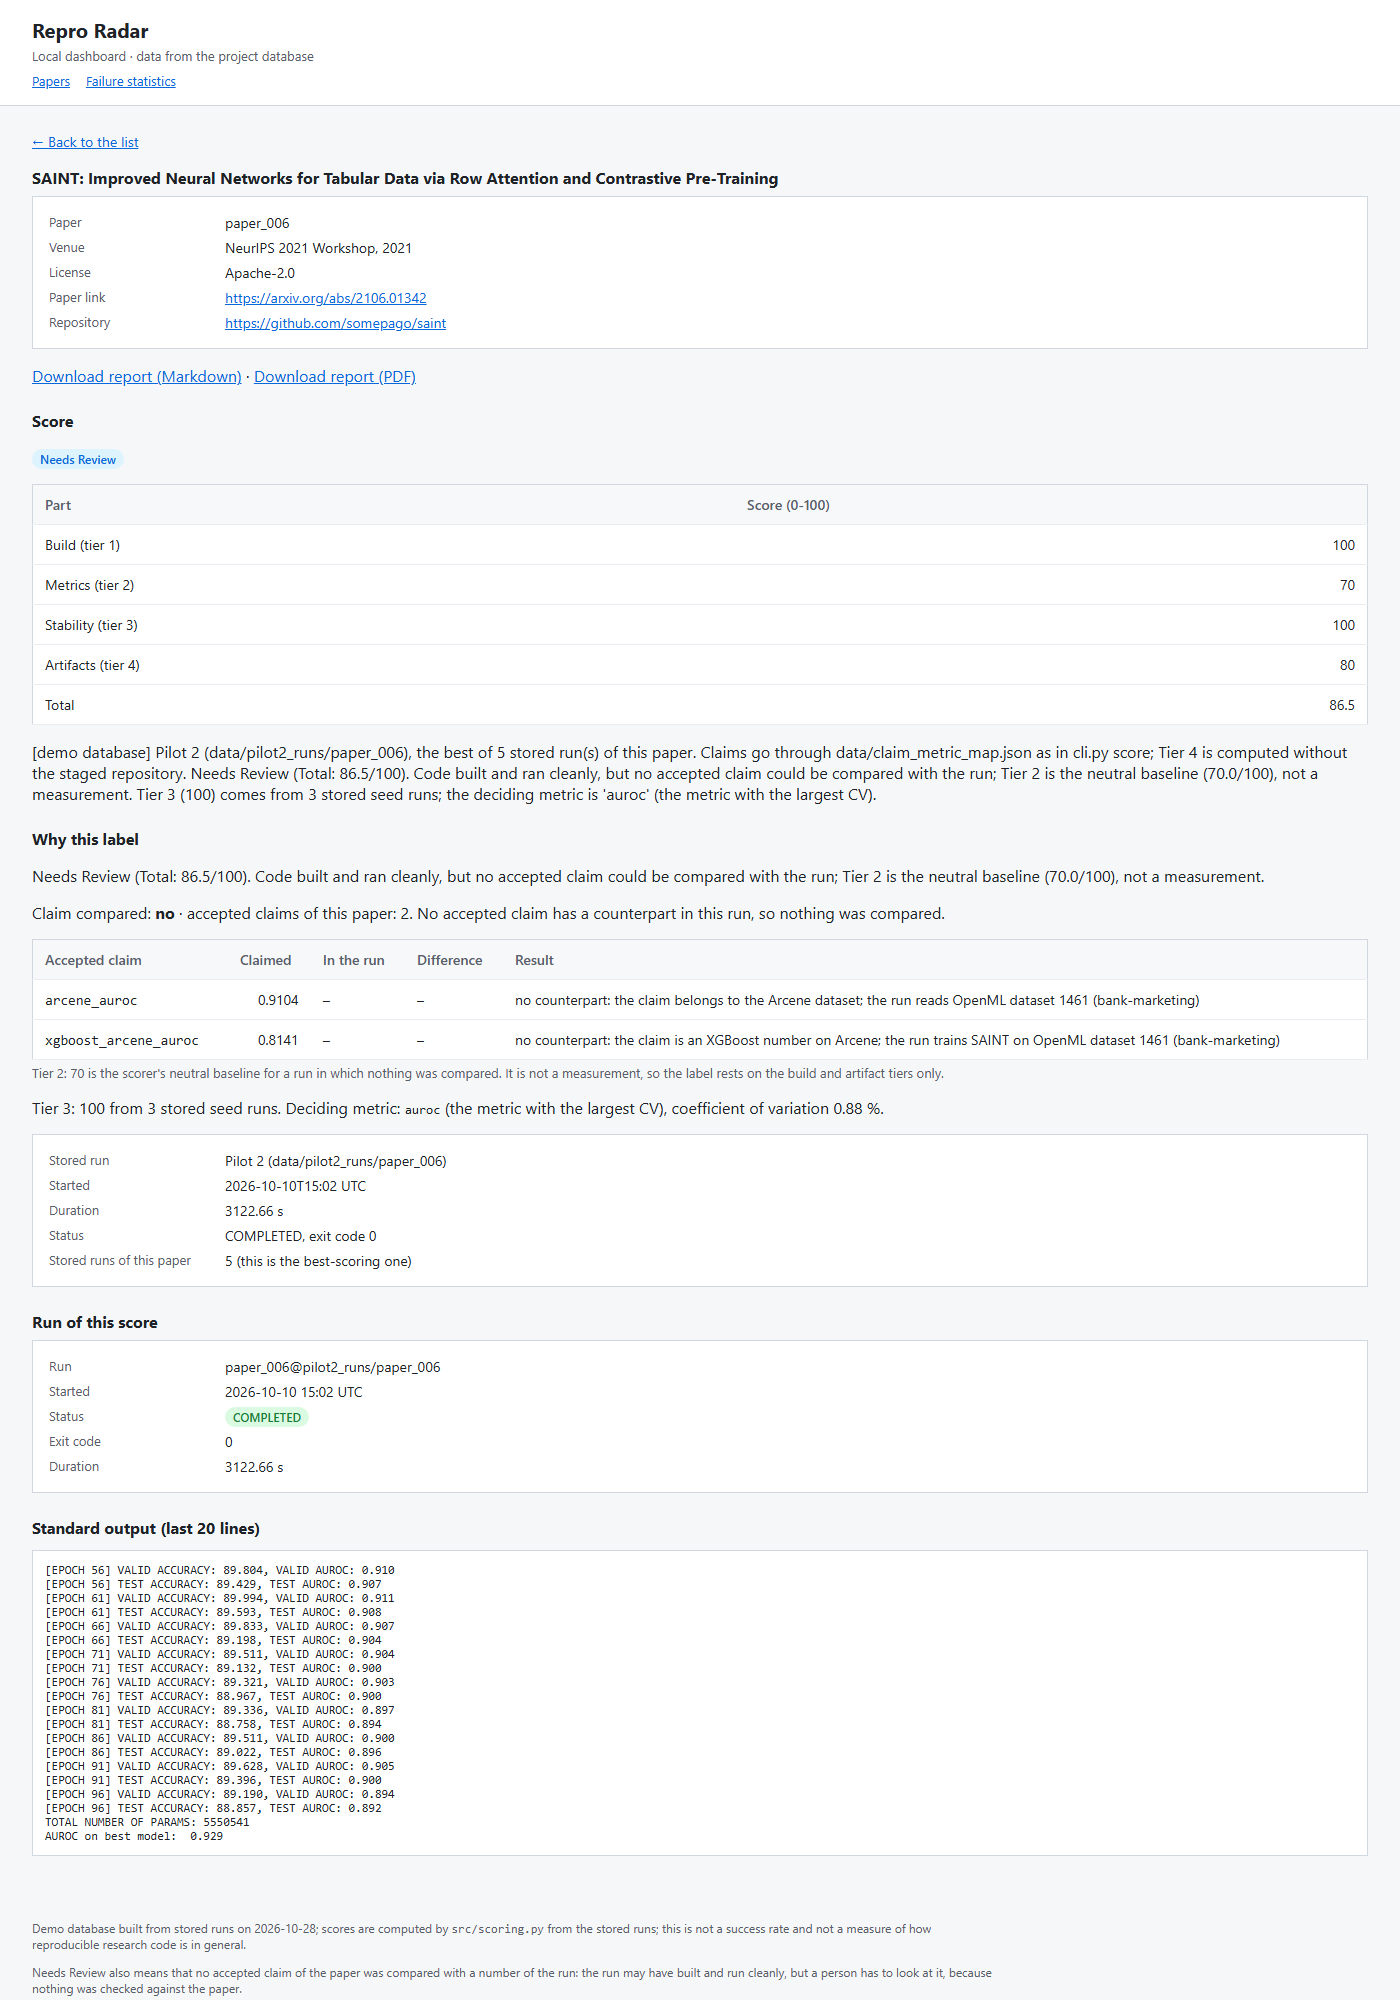
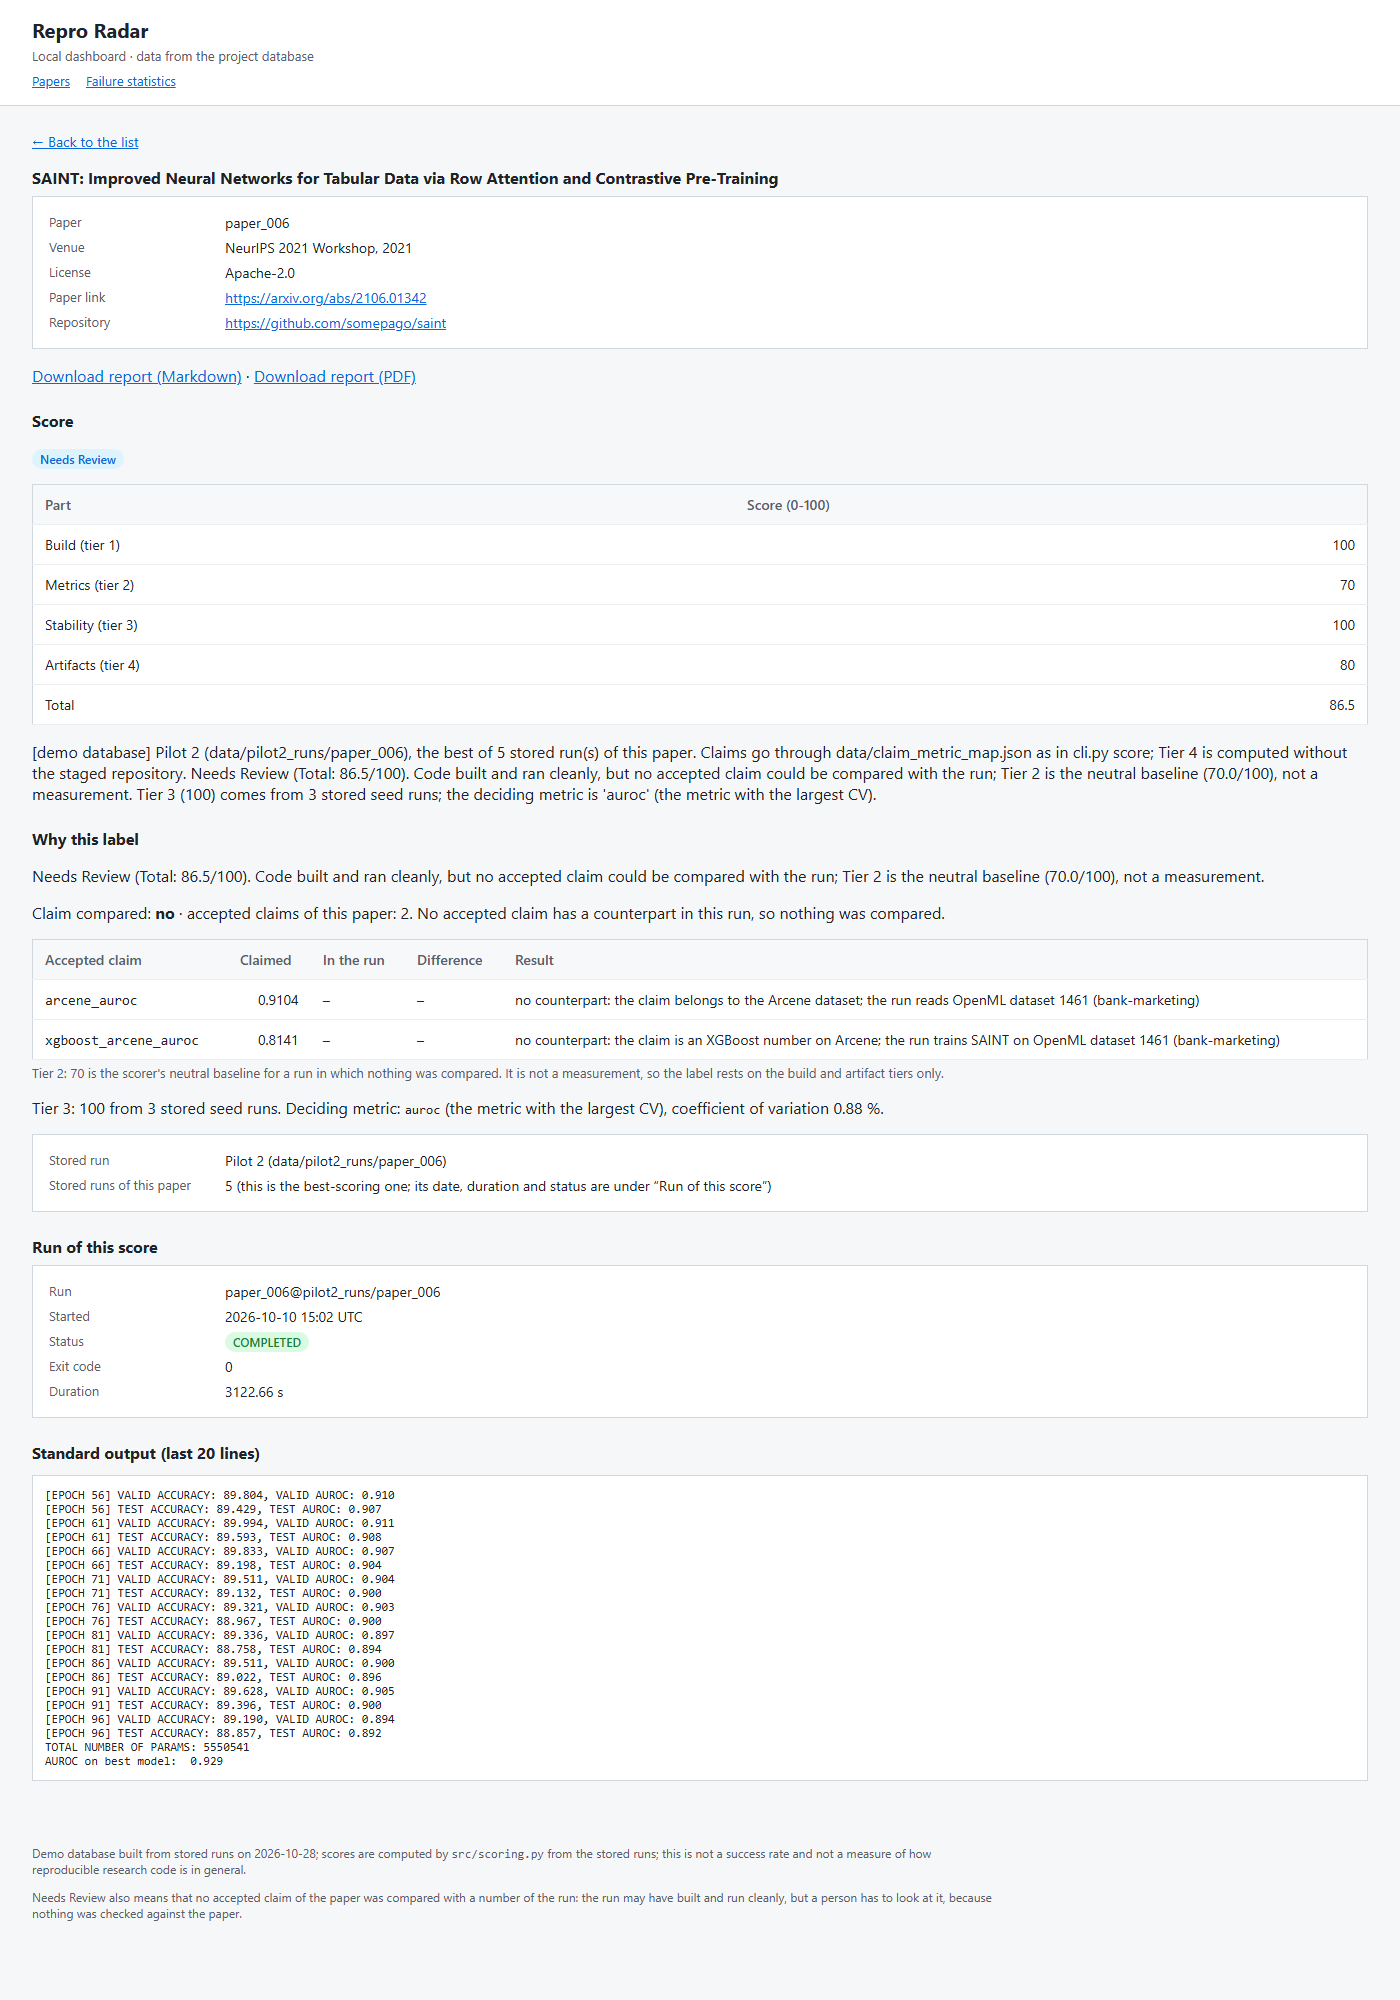
docs(web): demo3 screenshots, README and demo script for the final dashboard (#548)

Changed region(s): [[0.0307, 0.589, 0.6757, 1.0], [0.3379, 0.589, 0.3686, 0.62]]

diff --git a/docs/DEMO_SCRIPT.md b/docs/DEMO_SCRIPT.md
@@ -14,6 +14,11 @@ shows and what it does **not** show. Nothing here is a reproduction of a paper's
 > another run; the remark in Step 1 that score and latest run do not belong together describes the state at the time of recording.
 > The commands and their output were not recorded again.
 
+> **Update 2026-10-28 (#542, #546, #548): the final dashboard.** Step 1 below is replaced by the new Step 1 (the old one is kept under it). The list shows a short
+> reason beside every label, the paper page has "Why this label", the synthetic control is listed apart as "not a paper: known-answer
+> control", and the new page `/failures` shows the failure statistics. Tier 3 of `paper_003` and `paper_006` now comes from the stored
+> three-seed records (100 and 100). The commands below were run for real on 2026-10-28 in a fresh clone of the repository.
+
 Before the talk: `python cli.py init-db` once (loads the 6 papers and the 13 claims that the owner accepted), the virtual environment
 active (`.venv\Scripts\Activate.ps1`), and Docker **not** needed: every step reads stored records.
 
@@ -29,7 +34,48 @@ active (`.venv\Scripts\Activate.ps1`), and Docker **not** needed: every step rea
 | 8 | 0:20 | The candidate papers: 0 of 14 |
 | 9 | 0:40 | The limits, with their intervals |
 
-## Step 1. The dashboard (0:30)
+## Step 1. The dashboard with the stored runs (0:30)
+
+Commands (a fresh clone; the dashboard binds to `127.0.0.1` only; open `http://127.0.0.1:8000/`):
+
+```text
+$ python cli.py init-db
+$ python scripts/build_demo_db.py
+Wrote <REPO>/data/dashboard_demo.db: 13 papers, one score each (the best stored run).
+  paper_002          Failed              62.75  Pilot 2 of 3 run(s)
+  paper_003          Verified            97.00  Pilot 3 of 8 run(s)
+  paper_004          Needs Review        82.75  memory run of 4 run(s)
+  paper_005          Failed              62.75  Pilot 2 of 4 run(s)
+  paper_006          Needs Review        86.50  Pilot 2 of 5 run(s)
+  paper_008          Failed              62.75  Pilot 1 of 3 run(s)
+  paper_101          Needs Review        78.25  Pilot 4 of 1 run(s)
+  paper_102          Needs Review        82.75  Pilot 4 of 1 run(s)
+  paper_103          Failed              54.00  Pilot 4 of 1 run(s)
+  paper_104          Failed              62.75  Pilot 4 of 1 run(s)
+  paper_105          Failed              54.00  Pilot 4 of 1 run(s)
+  paper_106          Failed              58.25  Pilot 4 of 1 run(s)
+  synthetic_control  Verified            88.75  synthetic run 1 of 2 run(s)
+Start the dashboard: python -m src.web --db-url sqlite:///data/dashboard_demo.db
+$ python -m src.web --db-url sqlite:///data/dashboard_demo.db
+```
+
+Screenshots (headless Chrome, 2026-10-28), in `docs/evidence/demo3/`: [`list.png`](evidence/demo3/list.png),
+[`paper_003.png`](evidence/demo3/paper_003.png), [`paper_006.png`](evidence/demo3/paper_006.png),
+[`paper_103.png`](evidence/demo3/paper_103.png), [`synthetic_control.png`](evidence/demo3/synthetic_control.png),
+[`failures.png`](evidence/demo3/failures.png).
+
+- List: `paper_003` shows "Claim compared: yes (1 of 3) - Tier 2: 100"; `paper_006` shows "Claim compared: no - Tier 2: 70 (baseline,
+  nothing compared)" and the label `Needs Review`. Failed papers say "Run failed (category); no claim compared".
+- `/papers/paper_003`, "Why this label": the claim `ft_transformer_rmse` 0.459 against 0.473 in the run, a difference of 3.05 %
+  (within the 5 % rule); the ResNet and XGBoost claims have no counterpart, with the reason; Tier 3 is 100 from 3 stored seed runs,
+  decided by `rmse`, the metric of an accepted claim; one claim and one number, not a confirmed reproduction.
+- `/failures`: counts of why selected runs failed, with the selection-bias warning first. Not a success rate.
+- The footer says that the database was built from stored runs, that the scores come from `src/scoring.py`, and what Needs Review means.
+
+- Shows: why each label was given, from stored data only.
+- Does **not** show: a set of reproduced papers or a success rate.
+
+### Step 1 as recorded on 2026-10-24 (before the final dashboard)
 
 Command (the dashboard binds to `127.0.0.1` only; open `http://127.0.0.1:8137/`):
 

diff --git a/README.md b/README.md
@@ -183,14 +183,15 @@ python scripts/build_demo_db.py
 python -m src.web --db-url sqlite:///data/dashboard_demo.db
 ```
 The script scores every stored run with the accepted claims and keeps the best record of each paper; the score's summary says
-which run and setting it is. Screenshots: [`docs/evidence/demo2/`](docs/evidence/demo2/).
+which run and setting it is. It also stores the reasons of every score (table `score_explanations`, created when the first one is saved), which the pages below show. Screenshots of the final dashboard: [`docs/evidence/demo3/`](docs/evidence/demo3/) (earlier: [`demo2/`](docs/evidence/demo2/)).
 
 The dashboard runs on **localhost only** (`127.0.0.1`, `docs/DECISIONS.md` D-006) and reads the project database (`data/repro_radar.db`, created by `cli.py init-db`); it never shows a number that is not stored there. Use `--db-url` to point it at another SQLAlchemy database.
 
 | Address | What it shows |
 |---|---|
-| `/` | The leaderboard: one table with search (title, venue), a status filter, and sorting by paper, year, or score. Papers without a stored score are listed last as "Not scored". |
-| `/papers/{paper_id}` | One paper: its score breakdown, its latest run with the end of the logs, and download links for the report. |
+| `/` | The leaderboard: one table with search (title, venue), a status filter, and sorting by paper, year, or score. Beside each label a short reason (claim compared yes/no; Tier 2 "baseline, nothing compared"). Papers without a stored score are listed last as "Not scored". The synthetic control is listed apart as "not a paper: known-answer control". |
+| `/papers/{paper_id}` | One paper: its score breakdown, "Why this label" (claims compared and not compared with reasons, the tolerance rule, the difference in percent, where Tier 3 came from, the stored run, a failure category with the log line), its run with the end of the logs, and download links for the report. |
+| `/failures` | The failure statistics from `data/failure_statistics.json` (`scripts/failure_statistics.py`), with the selection-bias warning. Stored numbers only; not a success rate. |
 | `/api/v1/papers`, `/api/v1/scores`, `/api/v1/scores/{paper_id}`, `/api/v1/runs/{run_id}` | The same data as JSON. The interactive documentation is at `/docs`. |
 | `/api/v1/badges/{paper_id}.svg` | An embeddable SVG badge with the stored score and status, or a gray "not scored" badge. |
 | `/api/v1/papers/{paper_id}/report.md` and `.pdf` | The audit report of one paper as a Markdown or PDF download. |

diff --git a/docs/PROGRESS.md b/docs/PROGRESS.md
@@ -21,7 +21,8 @@
 - **Night 5 (2026-10-25, issues #494 to #505):** verdicts on the real stored runs and the K2 positive control (`docs/REAL_VERDICTS.md`, #494; the expected K2 positive control was not obtained); a dashboard database from the stored runs (`scripts/build_demo_db.py`, #496, screenshots in `docs/evidence/demo2/`); the seven bug-hunt suspicions tried (#498: three real bugs fixed in #499, #500 and #501, one real and left to the owner, three owner decisions); the report brought to its final state with a new section 6.11 and `docs/PAPER_STATUS.md` (#503).
 - **Night 8 (2026-10-28):** Tier 3 is bound to the stored multi-seed records and the claimed metric (#542; K-A, a default chosen by the assistant, the owner may revise): `paper_003` 100 (was 65 under the largest-CV rule), `paper_006` 100, a paper without a record keeps 75.0 (`docs/MULTI_SEED.md` section 5a, `docs/PENDING.md` D7/D10). `docs/REAL_VERDICTS.md` regenerated, `report_numbers.py --check` and `real_verdicts.py --check` pass.
 - **Failure statistics (2026-10-28, #546):** `scripts/failure_statistics.py` counts the first failure of every stored run by documented text rules (Pilots 1-4: 24 attempts; the candidate list; the automatic searches of rounds 3 and 4) into `data/failure_statistics.json` and `docs/FAILURE_STATISTICS.md` (`--check`), with a selection-bias warning; report section 6.12 and the `failurestatistics` block of `scripts/report_numbers.py`.
-- **Tests:** 1,289 passed, 9 skipped locally (2026-10-28) (Windows; network and POSIX-only tests skip). There is no CI at the moment (D-010): every PR records its local `ruff check .` and `pytest` run.
+- **Final dashboard (2026-10-28, #548):** reasons beside every label, "Why this label" on the paper page (table `score_explanations`, written by `scripts/build_demo_db.py` and `cli.py score`), the synthetic control listed apart, `/failures` from `data/failure_statistics.json`, and a footer; screenshots in `docs/evidence/demo3/`, README and `docs/DEMO_SCRIPT.md` Step 1 updated. Checked in a fresh clone: `init-db`, `build_demo_db.py` and `python -m src.web` run and every page returns 200 (unknown paper 404). Bug-hunt suspicion 4 was already fixed in #513.
+- **Tests:** 1,303 passed, 9 skipped locally (2026-10-28) (Windows; network and POSIX-only tests skip). There is no CI at the moment (D-010): every PR records its local `ruff check .` and `pytest` run.
 
 ---
 

diff --git a/docs/evidence/demo3/README.md b/docs/evidence/demo3/README.md
@@ -1,0 +1,14 @@
+# demo3 evidence (#548)
+
+Screenshots of the final local dashboard, taken with headless Chrome on 2026-10-28 from a fresh clone of the repository after
+`python cli.py init-db`, `python scripts/build_demo_db.py` and `python -m src.web --db-url sqlite:///data/dashboard_demo.db`
+(`127.0.0.1` only).
+
+- `list.png`: the list with a reason beside each label, and the synthetic control listed apart ("not a paper: known-answer control").
+- `paper_003.png`: "Why this label": 0.459 claimed against 0.473 in the run (3.05 %), two claims without a counterpart, Tier 3 from 3 stored seed runs.
+- `paper_006.png`: nothing compared, Tier 2 is the neutral baseline, label `Needs Review`.
+- `paper_103.png`: a failed run with its category and a quoted log line.
+- `synthetic_control.png`: the known-answer control.
+- `failures.png`: the failure statistics page with the selection-bias warning.
+
+These show what the scorer decided on stored runs. They are not a set of reproduced papers and not a success rate.

diff --git a/docs/evidence/demo2/README.md b/docs/evidence/demo2/README.md
@@ -1,5 +1,7 @@
 # demo2 evidence (#496)
 
+> Superseded on 2026-10-28 by `docs/evidence/demo3/` (the final dashboard, #548). Kept as the earlier record.
+
 Screenshots of the local dashboard on `data/dashboard_demo.db`, built by `python scripts/build_demo_db.py` from the real
 stored runs and the accepted claims. They are taken with headless Chrome against `python -m src.web --db-url
 sqlite:///data/dashboard_demo.db` on `127.0.0.1`.
